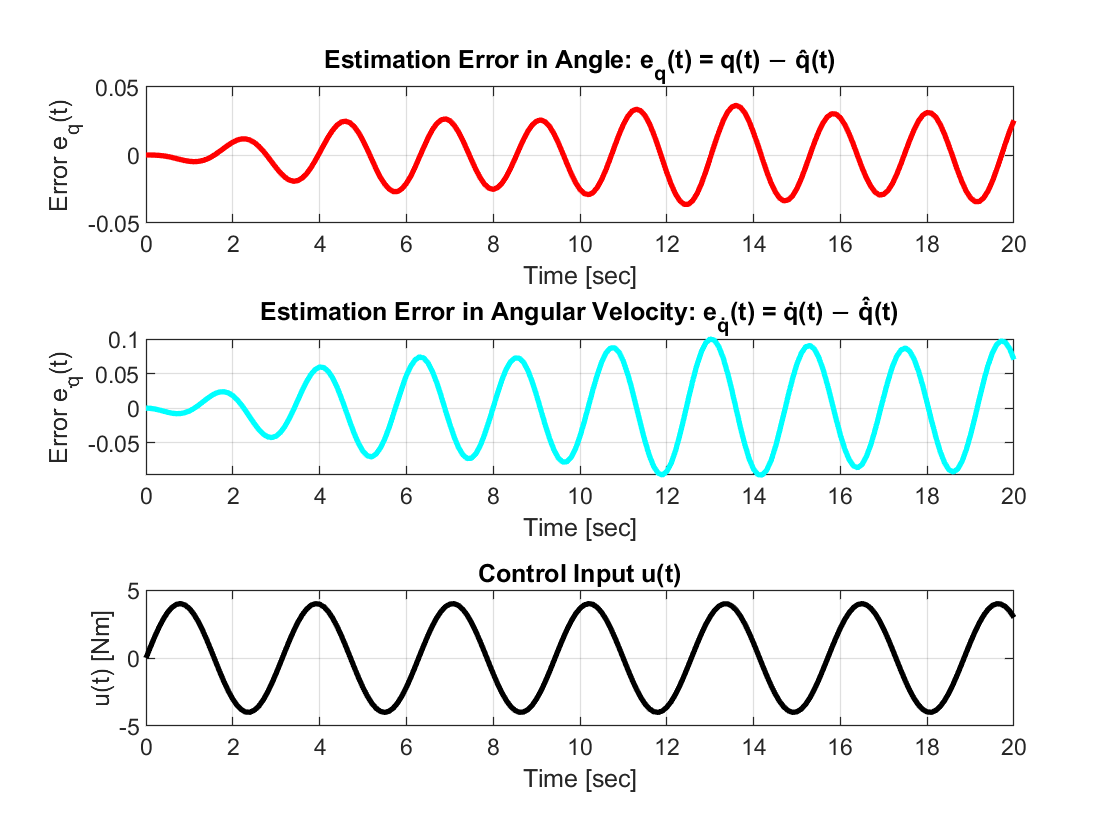
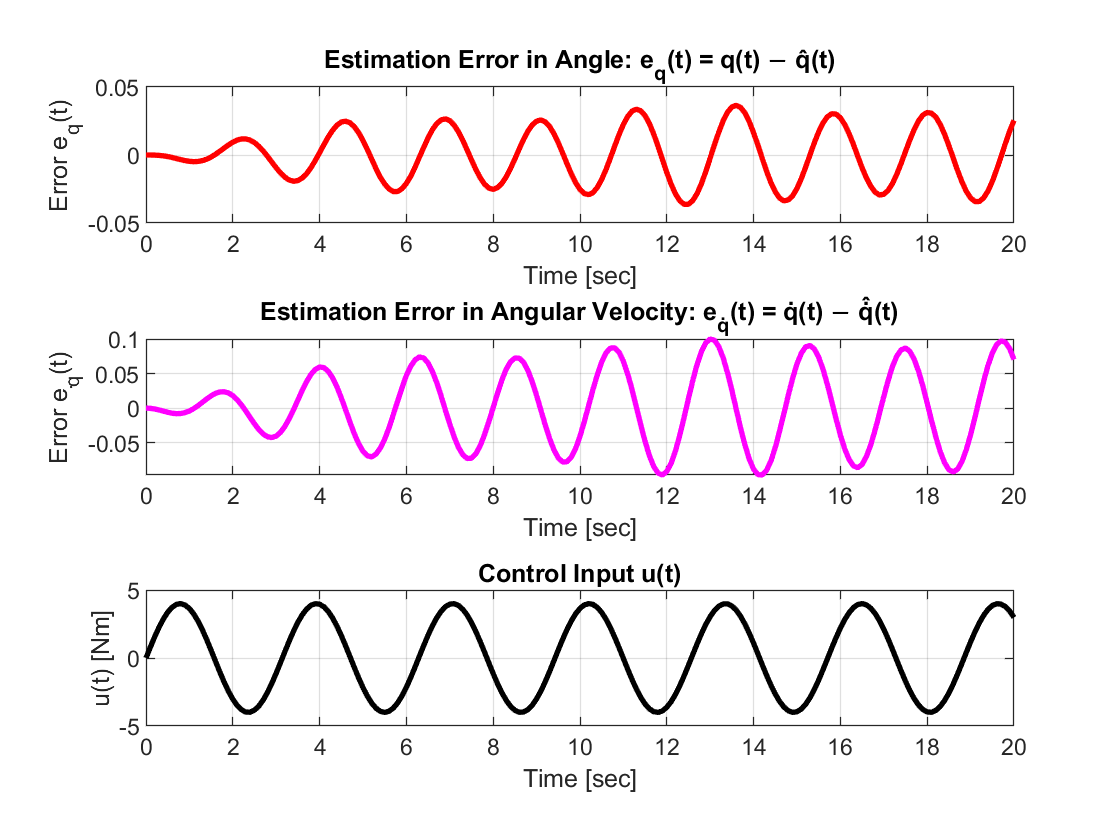
refactor Quest 2 and Quest 3 scripts: add paths for dependencies; update plotting colors and styles;

diff --git a/Part 1/Quest 3/quest_3a.m b/Part 1/Quest 3/quest_3a.m
@@ -1,4 +1,6 @@
 clc; clear; close all;
+addpath('C:\Users\30690\DynamicalSystemModellingandSimulation-Projects\Part 1')
+addpath('../Part 1')
 
 qdot_measurable = true; % true -> 2a, false -> 2b
 noise_percenatge = 0.05; 
@@ -63,25 +65,11 @@ fprintf('%-20s %-15.4f %-15.4f\n', 'L [m]', L_est, L_est_n);
 fprintf('%-20s %-15.4f %-15.4f\n', 'm [kg]', m_est, m_est_n);
 fprintf('%-20s %-15.4f %-15.4f\n', 'c [Nm/s]', c_est, c_est_n);
 
-data = [L_est,     L_est_n,     L;
-        m_est,     m_est_n,     m;
-        c_est,     c_est_n,     c];
-
-% Bar chart
-figure;
-bar(data);
-set(gca, 'xticklabel', {'L','m','c'});
-legend('Noiseless', 'Noisy', 'True', 'Location', 'northwest');
-title(sprintf('Comparison of Estimated Parameters, qdot\\_measurable = %d', qdot_measurable));
-xlabel('Parameters');
-ylabel('Estimated Value');
-grid on;
-
 % Position 
 figure;
 plot(t_sim, q, 'b', 'LineWidth', 2); hold on;
 plot(t_cont, q_samples, '--g', 'LineWidth', 2);
-plot(t_noisy, q_est_noisy, ':r', 'LineWidth', 2);
+plot(t_noisy, q_est_noisy, '--r', 'LineWidth', 1);
 xlabel('Time (s)');
 ylabel('Position q(t)');
 legend('True', 'Estimation (Clean)', 'Estimation (Noisy)');
@@ -92,9 +80,29 @@ grid on;
 figure;
 plot(t_sim, qdot, 'b', 'LineWidth', 2); hold on;
 plot(t_cont, qdot_samples, '--g', 'LineWidth', 2);
-plot(t_noisy, qdot_est_noisy, ':r', 'LineWidth', 2);
+plot(t_noisy, qdot_est_noisy, '--r', 'LineWidth', 1);
 xlabel('Time (s)');
 ylabel('Velocity q̇(t)');
 legend('True', 'Estimation (Clean)', 'Estimation (Noisy)');
 title(sprintf('Comparison of qdot, qdot\\_measurable = %d', qdot_measurable));
+grid on;
+
+data = [L_est,     L_est_n,     L;
+        m_est,     m_est_n,     m;
+        c_est,     c_est_n,     c];
+colors = [ 
+        0, 255, 0 % Green
+        255, 0, 0; % Red
+        0, 0, 255; % Blue
+] / 255;
+figure;
+b = bar(data); 
+for k = 1:length(b)
+    b(k).FaceColor = colors(k, :);
+end
+set(gca, 'xticklabel', {'L','m','c'});
+legend('Noiseless', 'Noisy', 'True', 'Location', 'northwest');
+title(sprintf('Comparison of Estimated Parameters, qdot\\_measurable = %d', qdot_measurable));
+xlabel('Parameters');
+ylabel('Estimated Value');
 grid on;

diff --git a/Part 1/Quest 3/quest_3b.m b/Part 1/Quest 3/quest_3b.m
@@ -1,4 +1,6 @@
 clc; clear; close all;
+addpath('C:\Users\30690\DynamicalSystemModellingandSimulation-Projects\Part 1')
+addpath('../Part 1')
 
 qdot_measurable = true; % true -> 2a, false -> 2b
 noise_percenatge = 0.05; 
@@ -66,18 +68,6 @@ for i = 1:length(Ts_values)
     errors_c(i) = abs(est(3) - c);
 end
 
-% --- Plotting Errors vs Ts ---
-figure;
-plot(Ts_values, errors_L, '-+', 'LineWidth', 1.5); hold on;
-plot(Ts_values, errors_m, '-x', 'LineWidth', 1.5);
-plot(Ts_values, errors_c, '-*', 'LineWidth', 1.5);
-xlabel('Sampling Period Ts [sec]');
-ylabel('Estimation Error');
-legend('Error in L', 'Error in m', 'Error in c');
-title('Parameter Estimation Error vs Sampling Period Ts');
-grid on;
-
-% Προαιρετικά αποθήκευσε και τις εκτιμήσεις:
 L_estimates_Ts = zeros(size(Ts_values));
 m_estimates_Ts = zeros(size(Ts_values));
 c_estimates_Ts = zeros(size(Ts_values));
@@ -93,11 +83,25 @@ for i = 1:length(Ts_values)
     c_estimates_Ts(i) = est(3);
 end
 
-figure;
-color_L = [0.85, 0.33, 0.10];
-color_m = [0, 0.45, 0.74];
-color_c = [0.47, 0.67, 0.19];
+%% Plotting Results
+% Errors vs Ts 
+color_L = [0, 0, 1];
+color_m = [0, 1, 0];
+color_c = [1, 0, 0];
 
+figure;
+plot(Ts_values, errors_L, '-+', 'LineWidth', 1.5, 'Color', color_L); hold on;
+plot(Ts_values, errors_m, '-x', 'LineWidth', 1.5, 'Color', color_m);
+plot(Ts_values, errors_c, '-*', 'LineWidth', 1.5, 'Color', color_c);
+yline(0, '--', 'Zero Error', 'Color', 'k', 'LineWidth', 1.5);
+xlabel('Sampling Period Ts [sec]');
+ylabel('Estimation Error');
+legend('Error in L', 'Error in m', 'Error in c');
+title('Parameter Estimation Error vs Sampling Period Ts');
+grid on;
+
+% Estimated Parameters vs Ts
+figure;
 subplot(3,1,1);
 plot(Ts_values, L_estimates_Ts, '-+', 'Color', color_L, 'LineWidth', 1.5); hold on;
 yline(L, '--', 'True L', ...

diff --git a/Part 1/Quest 3/quest_3c.m b/Part 1/Quest 3/quest_3c.m
@@ -1,4 +1,6 @@
 clc; clear; close all;
+addpath('C:\Users\30690\DynamicalSystemModellingandSimulation-Projects\Part 1')
+addpath('../Part 1')
 
 qdot_measurable = true; % true -> 2a, false -> 2b
 noise_percenatge = 0.05; 
@@ -76,11 +78,17 @@ for i = 1:length(A0_values)
 
 end
 
+%% Plotting Results
+color_L = [0, 0, 1];
+color_m = [0, 1, 0];
+color_c = [1, 0, 0];
+
 % Errors vs A0 
 figure;
-plot(A0_values, errors_L_A0, '-+', 'LineWidth', 2); hold on;
-plot(A0_values, errors_m_A0, '-x', 'LineWidth', 2);
-plot(A0_values, errors_c_A0, '-*', 'LineWidth', 2);
+plot(A0_values, errors_L_A0, '-+', 'LineWidth', 2, 'Color', color_L); hold on;
+plot(A0_values, errors_m_A0, '-x', 'LineWidth', 2, 'Color', color_m);
+plot(A0_values, errors_c_A0, '-*', 'LineWidth', 2, 'Color', color_c);
+yline(0, '--k', 'LineWidth', 1.5);
 xlabel('Input Amplitude A0');
 ylabel('Estimation Error');
 legend('Error in L', 'Error in m', 'Error in c');
@@ -89,10 +97,6 @@ grid on;
 ylim([-1, max([errors_L_A0, errors_m_A0, errors_c_A0])*1.1]);
 
 % Plot estimated parameters vs A0
-color_L = [0.85, 0.33, 0.10];   % orange
-color_m = [0, 0.45, 0.74];      % blue
-color_c = [0.47, 0.67, 0.19];   % green
-
 figure;
 subplot(3,1,1);
 plot(A0_values, L_estimates, '-+', 'LineWidth', 1.5, 'Color', color_L); hold on;

diff --git a/Part 1/ls_estimation.m b/Part 1/ls_estimation.m
@@ -22,10 +22,12 @@ function estimations = ls_estimation(X, time, qdot_measurable)
 
     % Define Phi matrix through filtered signals
     phi1 = lsim(D1, x, time);  % filtered ddot(q)
-    if qdot_measurable == true
-        phi2 = lsim(D3, xdot, time);  % filtered ddot(q)
+    if qdot_measurable == true 
+        phi2 = lsim(D3, xdot, time);  
+        disp('Using q̇(t) for estimation\n');
     else
-        phi2 = lsim(D2, x, time);  % filtered ddot(q)
+        phi2 = lsim(D2, x, time);  
+        disp('Using q(t) for estimation\n');
     end 
     phi3 = lsim(D3, x, time);  % filtered q
     yf = lsim(D3, u, time); % filtered u(t)

diff --git a/Part 1/Quest 2/quest_2.m b/Part 1/Quest 2/quest_2.m
@@ -1,6 +1,8 @@
 clc; clear; close all;
+addpath('C:\Users\30690\DynamicalSystemModellingandSimulation-Projects\Part 1')
+addpath('../Part 1')
 
-qdot_measurable = false; % true -> 2a, false -> 2b
+qdot_measurable = true; % true -> 2a, false -> 2b
 
 % System Parameters
 m = 0.75;
@@ -69,7 +71,7 @@ title('Estimation Error in Angle: e_q(t) = q(t) − q̂(t)');
 grid on;
 
 subplot(3,1,2);
-plot(t, qdot - qdot_samples, 'c', 'LineWidth', 2);
+plot(t, qdot - qdot_samples, 'm', 'LineWidth', 2);
 xlabel('Time [sec]'); ylabel('Error e_{q̇}(t)');
 title('Estimation Error in Angular Velocity: e_{q̇}(t) = q̇(t) − q̇̂(t)');
 grid on;

diff --git a/Part 1/Quest 1/quest_1b.m b/Part 1/Quest 1/quest_1b.m
@@ -1,4 +1,6 @@
 clc; clear; close all;
+addpath('C:\Users\30690\DynamicalSystemModellingandSimulation-Projects\Part 1')
+addpath('../Part 1')
 
 % System Parameters
 m = 0.75;
